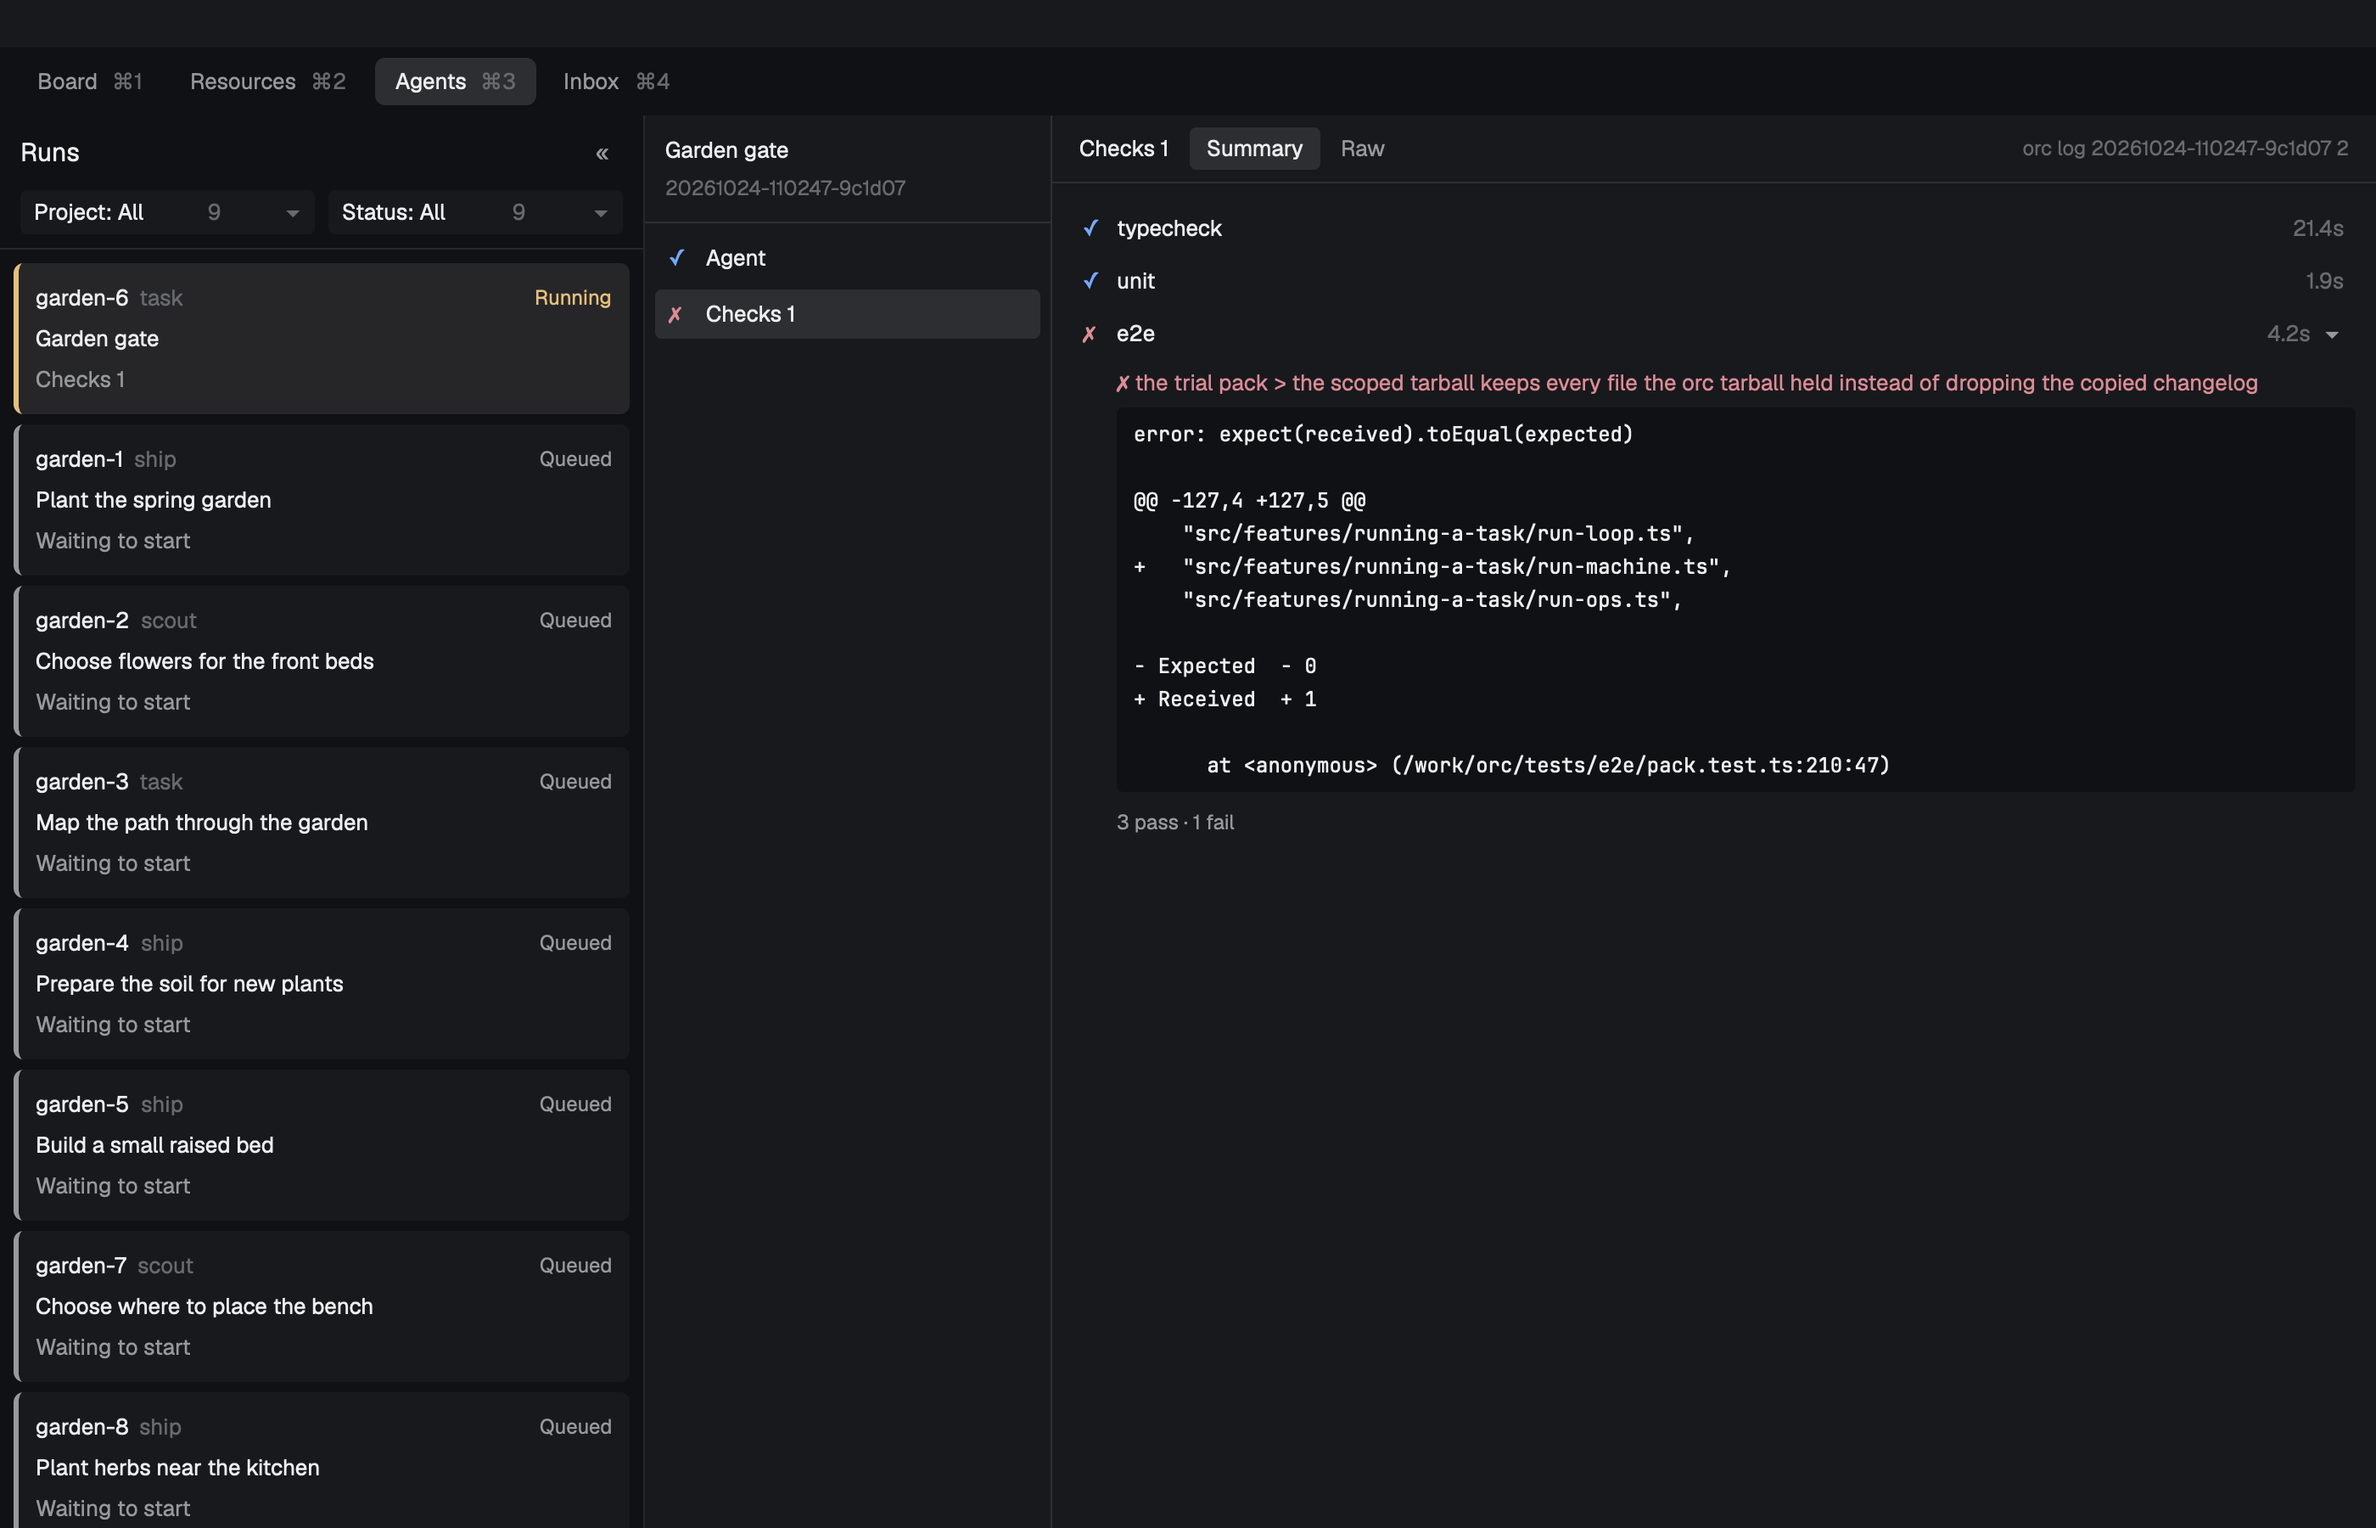
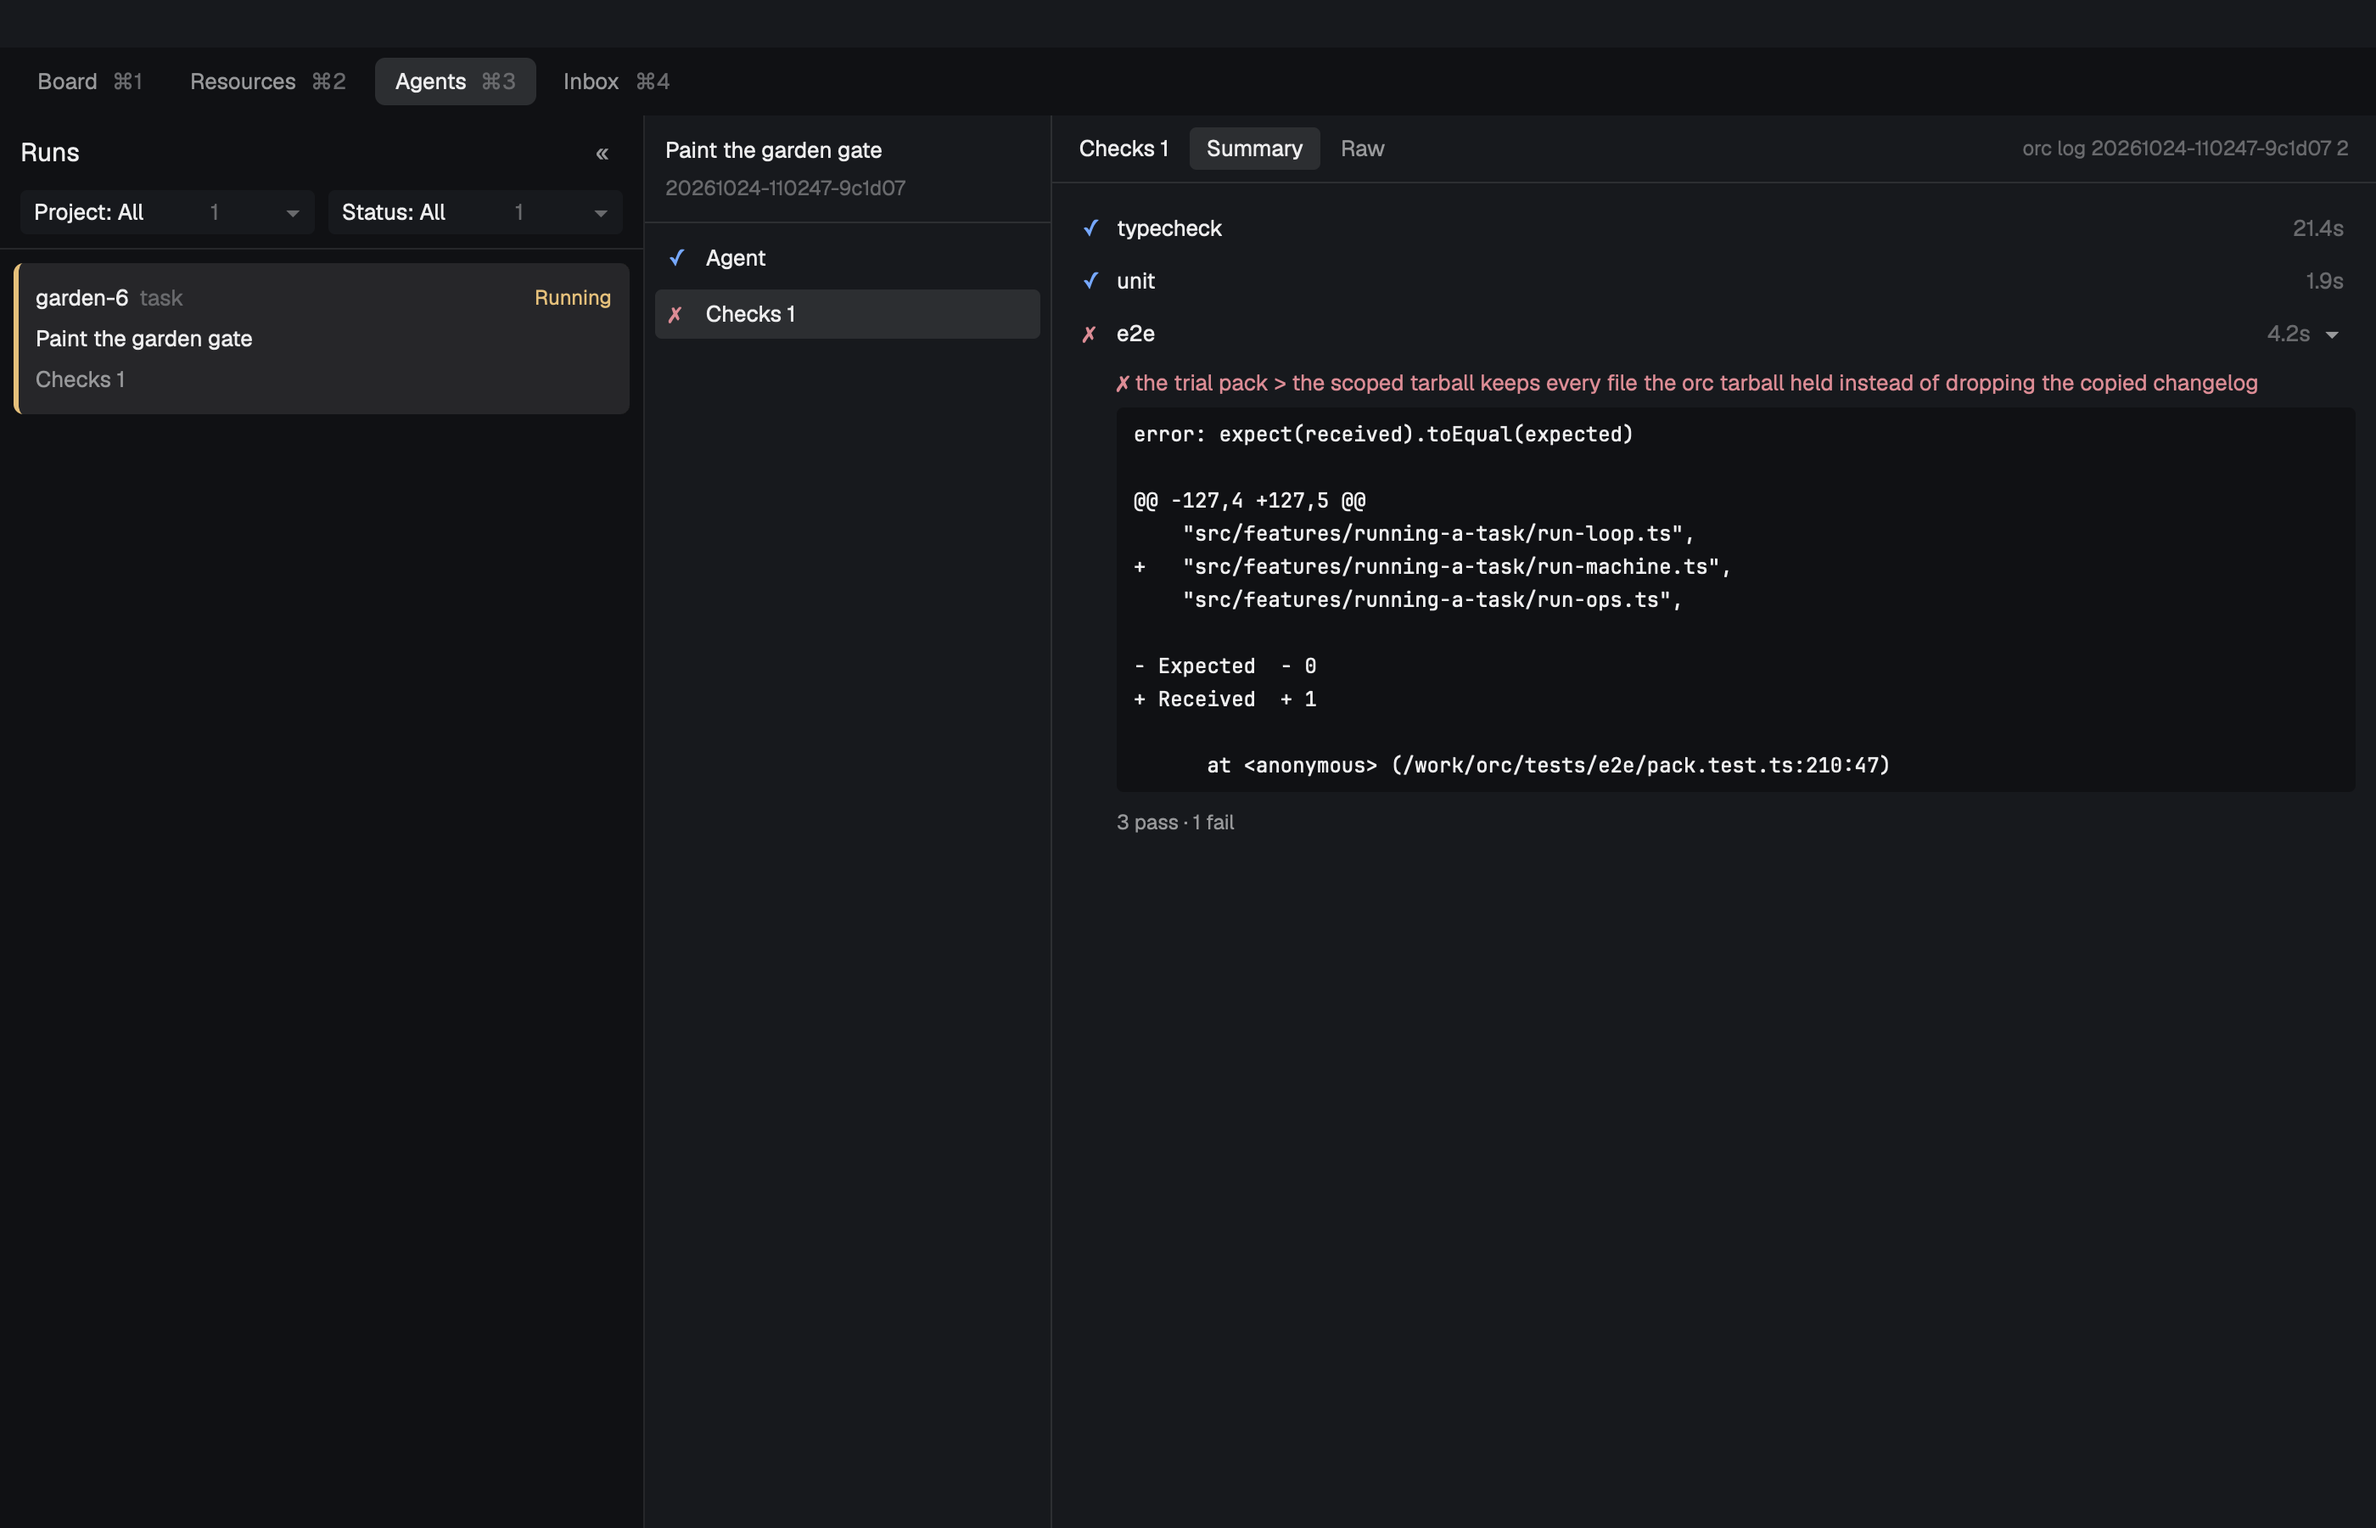
no-mistakes(review): Make Herdr Inbox and Checks captures reproducible

diff --git a/tests/unit/herdr-app/inbox-count.test.ts b/tests/unit/herdr-app/inbox-count.test.ts
@@ -245,11 +245,11 @@ test("shows the subject, outcomes, and recommendation in an unselected Agents ca
   agents.selectedKey = queued.key
   const element = agents.render(cx)
   const words = wordsOf(element)
-  expect(words).toContain("The layout of the report")
-  expect(words).toContain("Stack the columns so both fit on narrow screens.")
+  expect(words).toContain("The width of the herb bed")
+  expect(words).toContain("Plant one row so the path to the kitchen door stays clear.")
   expect(words).toContain("Narrow")
   expect(words).toContain("Overdue · Waited 1h 22m")
-  expect(words).toContain("Which scope should the report cover?")
+  expect(words).toContain("Where should the bench go?")
   expect(words).toContain("No options recorded")
   expect(words).not.toContain("Which file format should the export use?")
   expect(words).not.toContain("Two retries")

diff --git a/docs/herdr-app.md b/docs/herdr-app.md
@@ -44,10 +44,10 @@ The tabs refresh while visible and show a reason when a command fails.
 
 Select **Inbox** or press `cmd-4` to see everything Orc assigns to you in one list, oldest first.
 
-![Inbox tab with an event and questions assigned across tasks](images/herdr-inbox.png)
+![Inbox tab with an overdue event and two decisions](images/herdr-inbox.png)
 
 Each card shows the task ID and title, who asks, the subject, each option with its outcome, and the recommendation.
-An option with a picture shows as a tile, and any other option shows as a button.
+An option with a picture shows as a tile, and others as buttons.
 The Inbox outlines the recommended option.
 If Orc did not record options, the card shows the original text and says **No options recorded**.
 An overdue card shows how long it has waited.
@@ -55,7 +55,7 @@ The Agents tab shows the same cards under each run in **Awaiting you**.
 
 To answer a question, a decision, a hold or an event:
 
-1. Click an option, or type your own answer and press Enter or **Send**.
+1. Click an option, or type an answer and press Enter or **Send**.
 1. The Inbox runs the command for that item, and the card shows **Answer recorded**:
    - `orc backlog answer <task> <id>=<answer>` for a question or a decision.
    - `orc backlog answer <task> <answer>` for a hold.
@@ -70,7 +70,7 @@ To merge a PR that waits:
 1. Confirm the dialog, and the Inbox runs `orc merge <task> --basis captain-word`.
 
 Click **hold** to leave the PR open, and the Inbox runs `orc attention answer <item> hold`.
-When a command fails, the card shows it with the first line of its error.
+A failed command shows on its card with the first line of its error.
 
 Questions the agent owns, and its answers, stay in the collapsed **Agent attention** section at the end, each with its basis.
 Where you replaced an agent's answer, your answer shows beside it as **Decided by you**.

diff --git a/docs/herdr-app-development.md b/docs/herdr-app-development.md
@@ -24,8 +24,15 @@ The script stops if it cannot find herdr-core or its sockets.
 ## Recapture the Board screenshots
 
 With the layout installed in a scratch home, run `packages/herdr-app/scripts/capture-board.sh tests/fixtures/herdr-board <output-png>`.
-Add `orc-resources` or `orc-agents` as a third argument to capture another tab.
+Add `orc-resources`, `orc-agents` or `orc-inbox` as a third argument to capture another tab.
 To show a selected Board task, pass `orc-board` and its task id, such as `garden-6`.
+
+The script copies the fixture into the scratch home and reads orc from there.
+A file under `replies/` in the fixture stands in for one orc command, named by its arguments joined with `_`.
+Every other command runs the installed orc.
+
+- For the Inbox screenshot, run `packages/herdr-app/scripts/capture-board.sh tests/fixtures/herdr-inbox docs/images/herdr-inbox.png orc-inbox`.
+- For the Checks screenshot, run `packages/herdr-app/scripts/capture-board.sh tests/fixtures/herdr-checks docs/images/herdr-agents-checks.png orc-agents`.
 
 ## Change the mods
 

diff --git a/tests/fixtures/herdr-checks/backlog/new/garden-6.md b/tests/fixtures/herdr-checks/backlog/new/garden-6.md
@@ -1,0 +1,10 @@
+---
+id: "garden-6"
+title: "Paint the garden gate"
+project: "garden"
+kind: "task"
+machine: null
+depends_on: []
+created: "2026-11-13T17:19:17.349Z"
+---
+# Paint the garden gate
